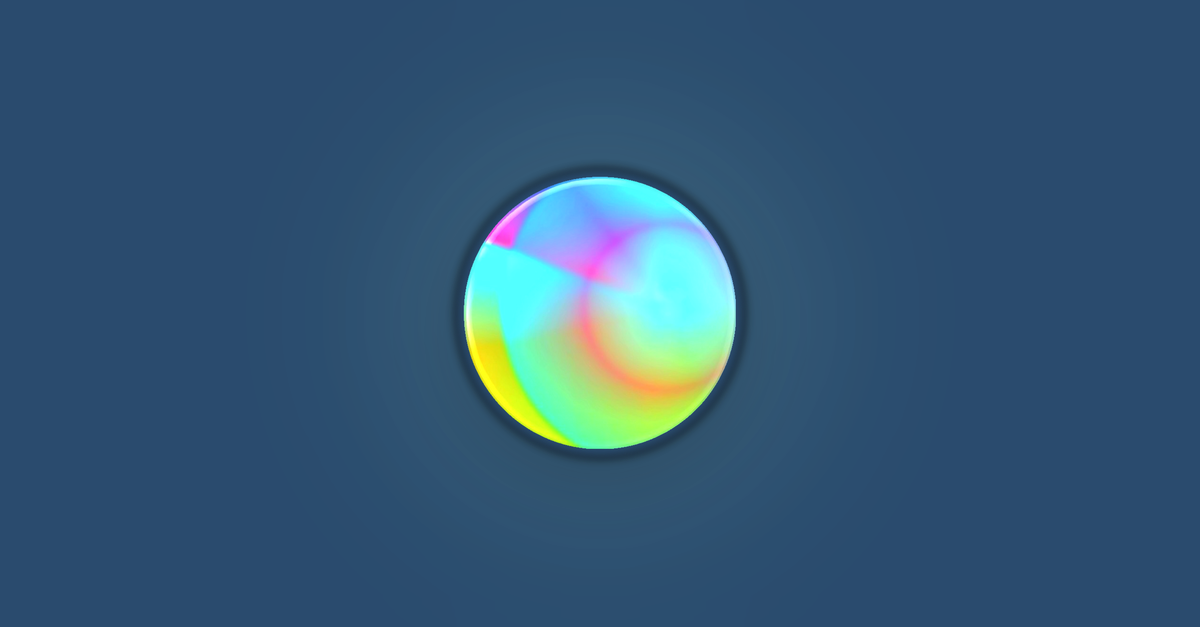
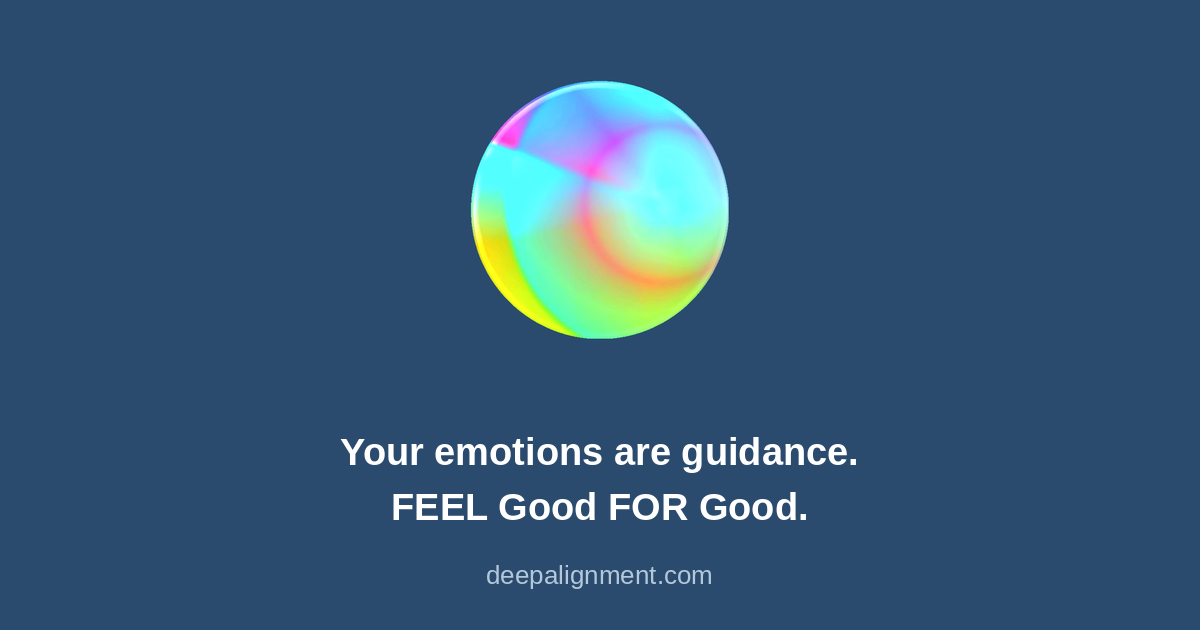
Refresh og:image with tagline + handle; switch twitter:card to large_image
Replaces the May 5 og:image (1200x627, no tagline) with the new
canonical brand-world treatment: Maurice orb + tagline + handle
on icon-native blue, 1200x630 (current universal OG spec).

Also adds og:image:width / og:image:height for crawlers, promotes
twitter:card from "summary" to "summary_large_image", and adds
twitter:image so X uses the same hero asset.

Matches the focuswheelapp.com og:image pattern shipped earlier
today.

Changed region(s): [[0.2775, 0.1212, 0.7092, 0.8485], [0.4008, 0.8788, 0.5858, 0.9394]]

diff --git a/index.html b/index.html
@@ -19,11 +19,14 @@
 <meta property="og:type" content="website">
 <meta property="og:url" content="https://www.deepalignment.com">
 <meta property="og:image" content="https://www.deepalignment.com/images/og-image.png">
+<meta property="og:image:width" content="1200">
+<meta property="og:image:height" content="630">
 
 <!-- Twitter Card -->
-<meta name="twitter:card" content="summary">
+<meta name="twitter:card" content="summary_large_image">
 <meta name="twitter:title" content="Resurface: Deep Alignment">
 <meta name="twitter:description" content="Master your Emotional Guidance System. 22 coach-guided Abraham-Hicks processes.">
+<meta name="twitter:image" content="https://www.deepalignment.com/images/og-image.png">
 
 <!-- Structured Data -->
 <script type="application/ld+json">
